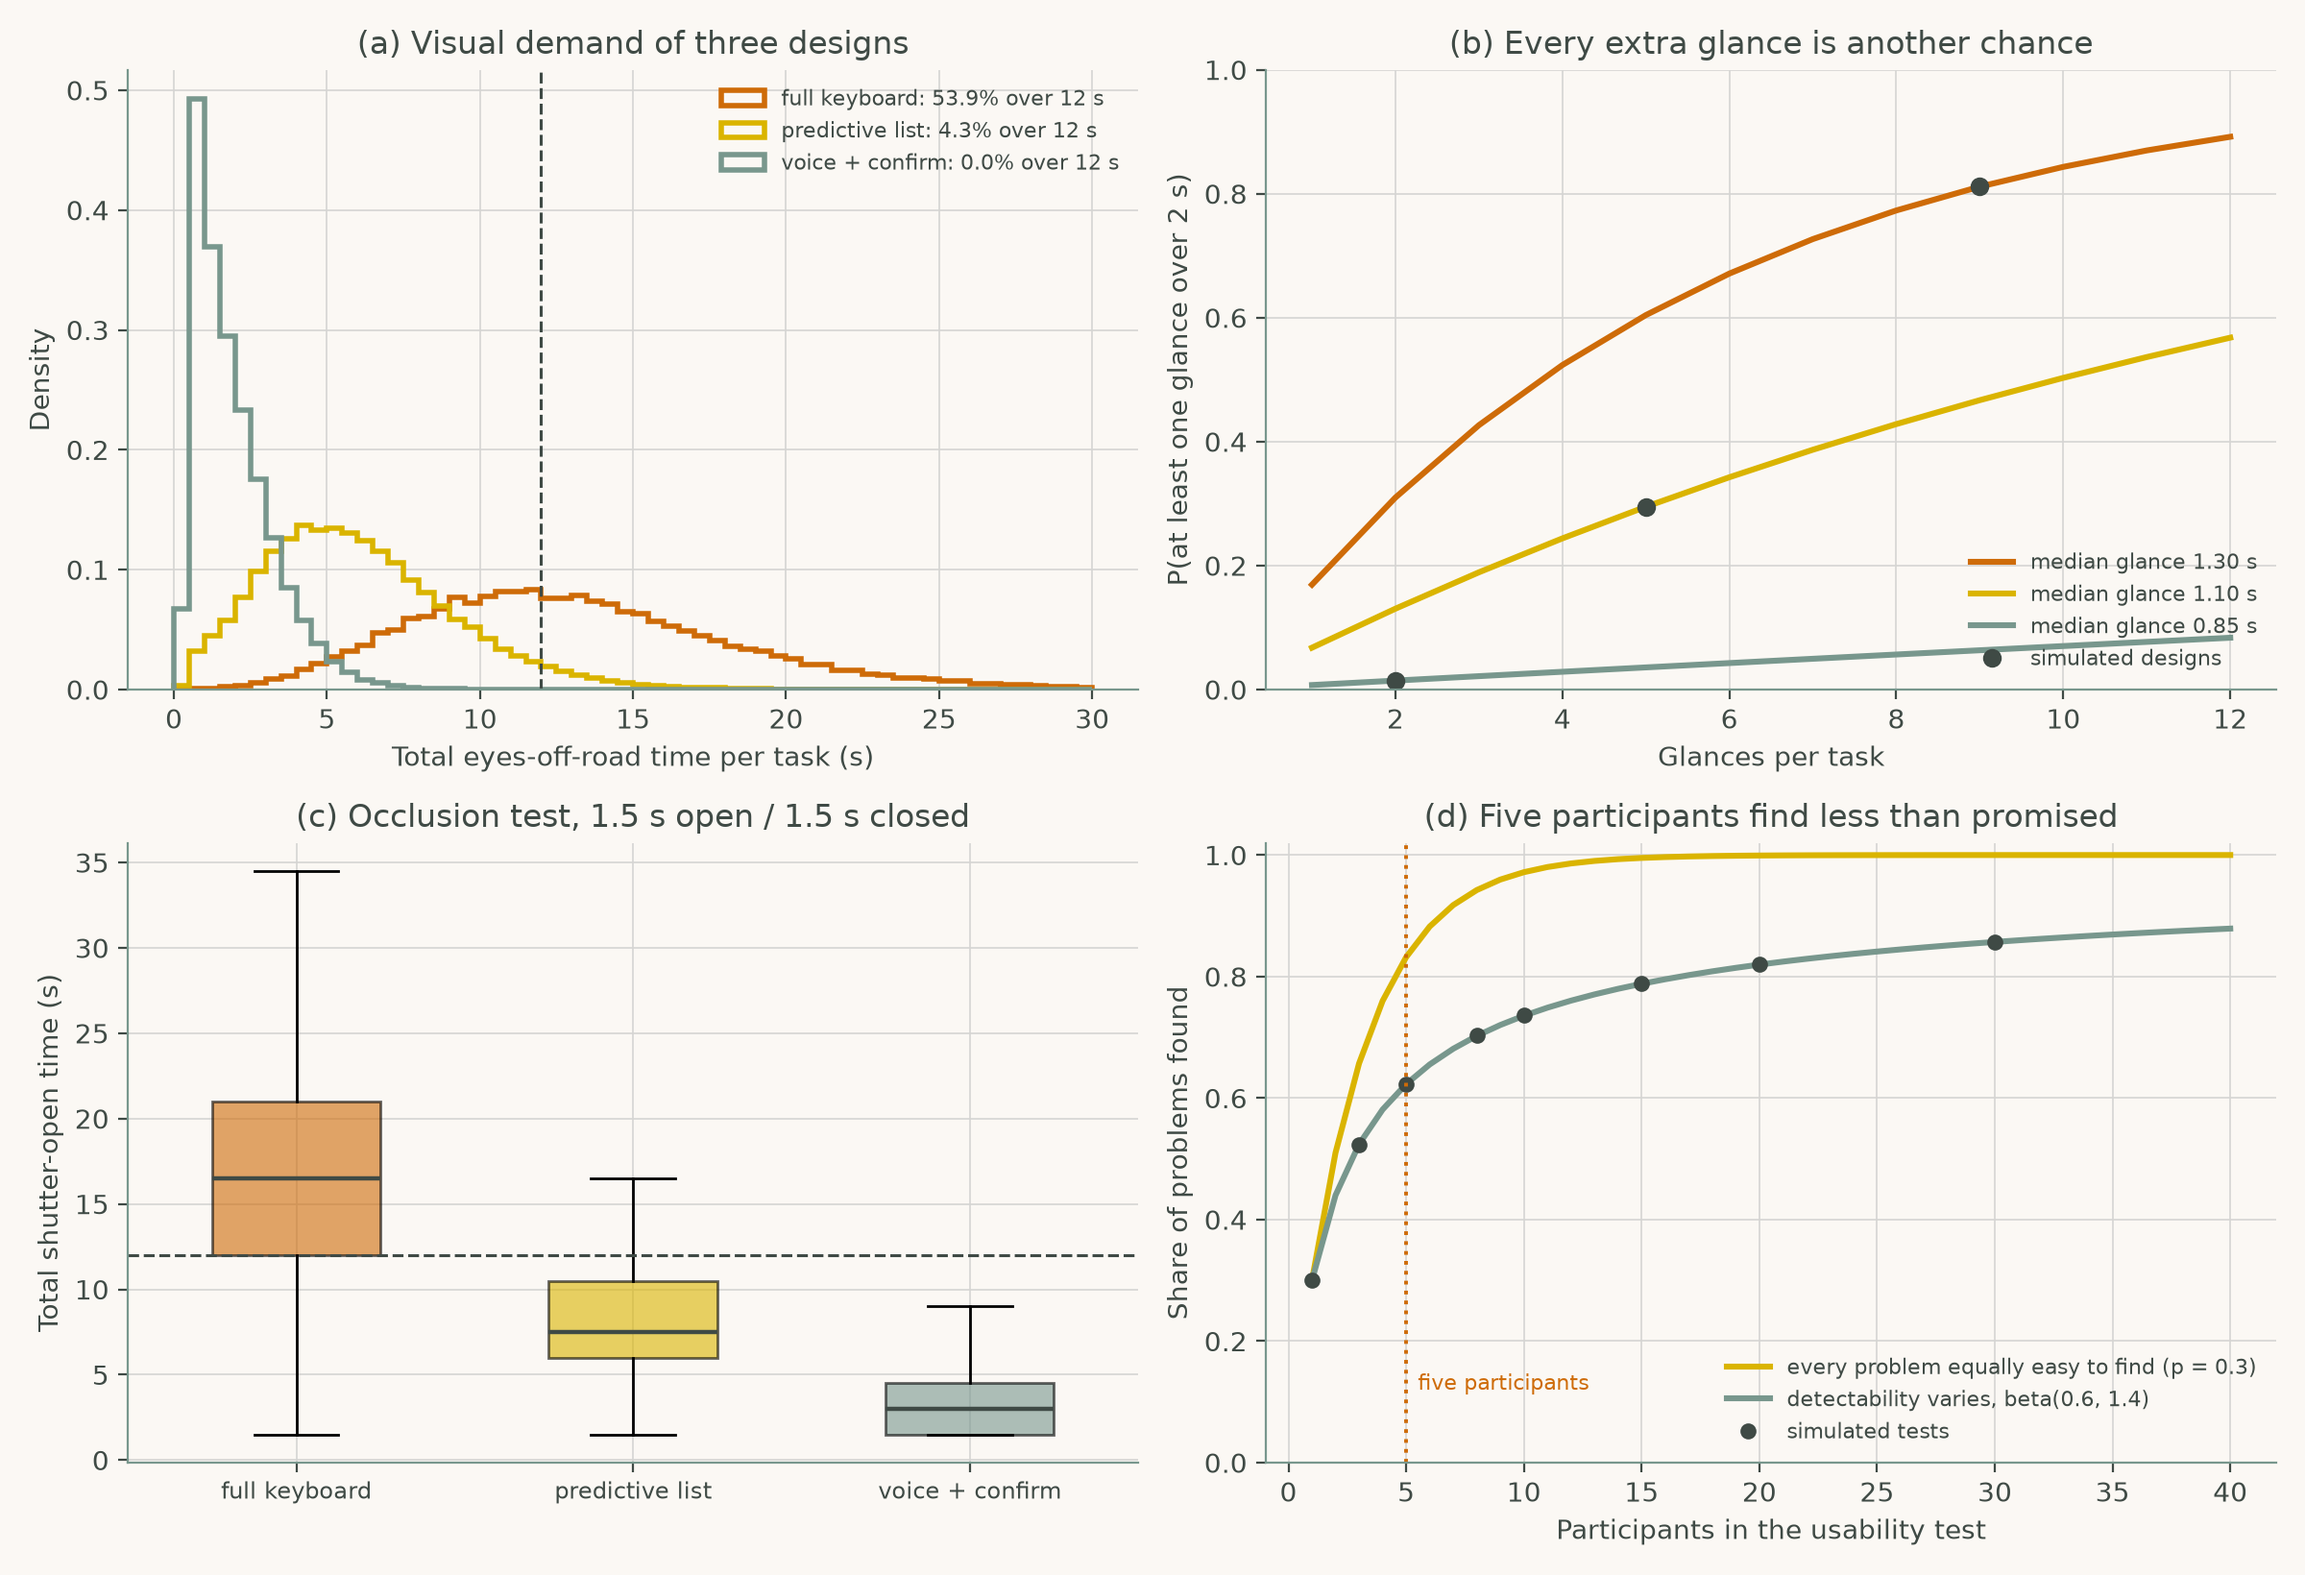
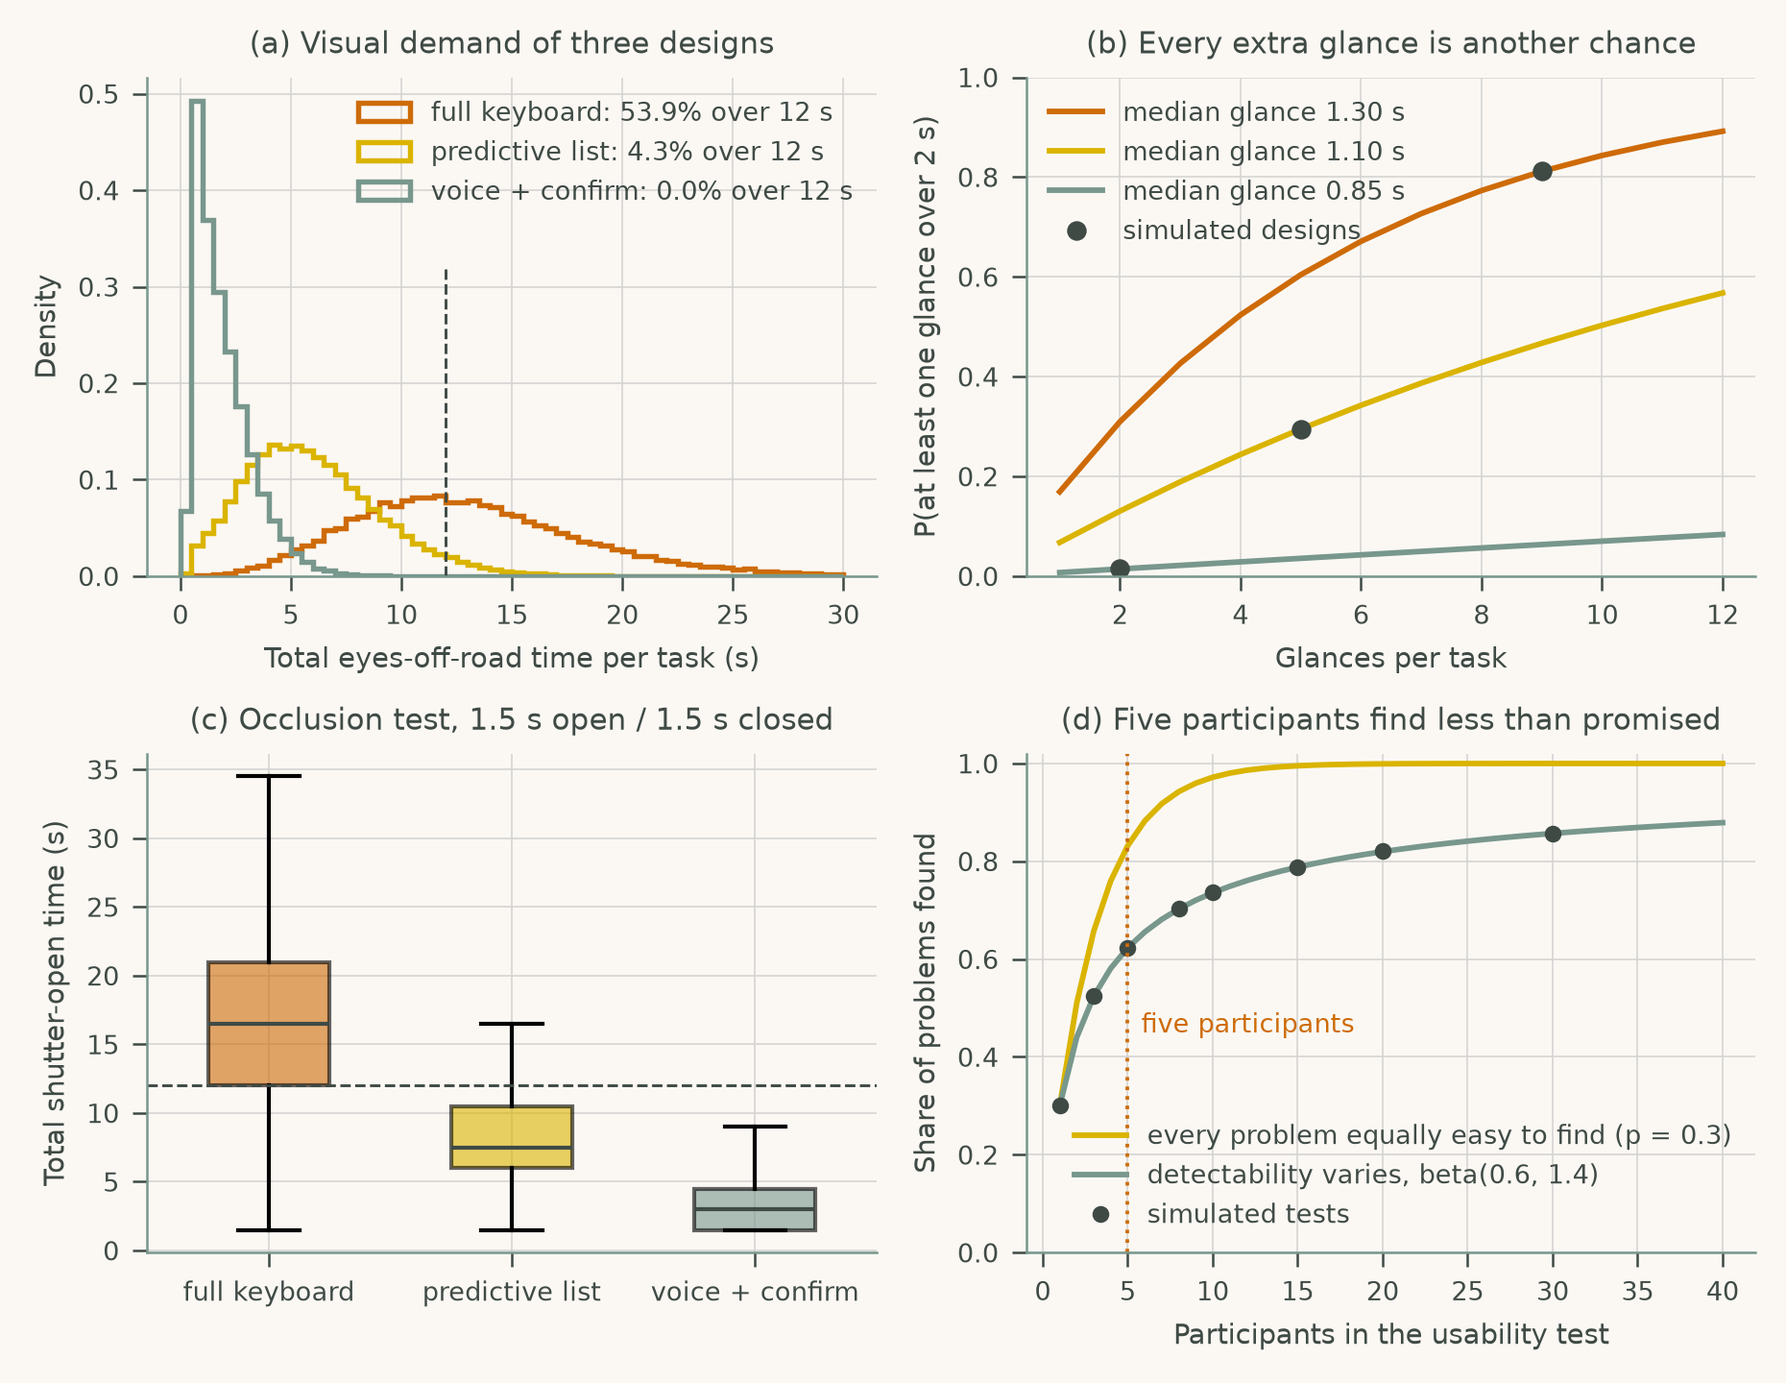
Redraw Chapter 4 figures at print size with readable type

diff --git a/chapters/ch04_in_vehicle_interfaces/cs2_interaction_modalities.py b/chapters/ch04_in_vehicle_interfaces/cs2_interaction_modalities.py
@@ -146,54 +146,58 @@ plt.rcParams.update({
     "xtick.color": INK, "ytick.color": INK,
     "figure.facecolor": PAPER, "axes.facecolor": PAPER,
     "axes.spines.top": False, "axes.spines.right": False,
-    "axes.grid": True, "grid.color": GRID, "grid.linewidth": 0.6})
-fig, ax = plt.subplots(2, 2, figsize=(12, 8.2))
+    "axes.grid": True, "grid.color": GRID, "grid.linewidth": 0.4,
+    "font.size": 7, "axes.titlesize": 7.5, "axes.labelsize": 7, "legend.fontsize": 6.5,
+    "xtick.labelsize": 6.5, "ytick.labelsize": 6.5, "axes.linewidth": 0.6,
+    "xtick.major.width": 0.6, "ytick.major.width": 0.6, "lines.linewidth": 1.2,
+    "legend.frameon": False})
+fig, ax = plt.subplots(2, 2, figsize=(6.2, 4.8))
 a = ax[0, 0]                                                   # (a) time and eyes-off-road
 x = np.arange(len(cmp))
 a.bar(x - 0.2, cmp.time_sim, 0.38, color=SKY, edgecolor=INK, lw=0.5, label="task time")
 a.bar(x + 0.2, cmp.eyes_off_sim, 0.38, color=RUST, edgecolor=INK, lw=0.5,
       label="eyes off the road")
-a.plot(x - 0.2, cmp.time_closed, "D", color=INK, ms=4)
-a.plot(x + 0.2, cmp.eyes_off_closed, "D", color=INK, ms=4, label="closed form")
-a.set_xticks(x, [m.replace(" + ", "\n+ ") for m in cmp.modality], fontsize=8.5)
-a.set(ylabel="Seconds per selection", title="(a) Fast is not the same as eyes on the road")
-a.legend(fontsize=8, frameon=False, loc="upper left")
+a.plot(x - 0.2, cmp.time_closed, "D", color=INK, ms=2.6)
+a.plot(x + 0.2, cmp.eyes_off_closed, "D", color=INK, ms=2.6, label="closed form")
+a.set_xticks(x, [m.replace(" + ", "\n+ ") for m in cmp.modality], fontsize=6.5)
+a.set(ylabel="Seconds per selection", title="(a) Fast is not the same as eyes on the road", ylim=(0, 5.4))
+a.legend(fontsize=6.5, loc="upper left", ncol=2)
 a = ax[0, 1]                                                   # (b) touch accuracy
 ww_ = np.linspace(5, 35, 300)
 ROADS = [(S_MOTOR, SAGE, "smooth road"), (np.hypot(S_MOTOR, S_VIB), RUST, "rough road")]
 for s, c, lab in ROADS:
-    a.plot(ww_, p_hit(ww_, s), color=c, lw=2.2, label=lab)
+    a.plot(ww_, p_hit(ww_, s), color=c, lw=1.4, label=lab)
 for w in [12.0, 18.0, 24.0]:
     xx = rng.normal(0, np.hypot(S_MOTOR, S_VIB), 100_000)
-    a.plot(w, (np.abs(xx) < w / 2).mean(), "o", color=INK, ms=5)
-a.axhline(0.99, color=INK, ls=":", lw=1)
-a.axvline(w99, color=RUST, ls="--", lw=1)
-a.text(w99 + 0.5, 0.6, f"{w99:.1f} mm for 99%\non a rough road", fontsize=8, color=RUST)
+    a.plot(w, (np.abs(xx) < w / 2).mean(), "o", color=INK, ms=3.2)
+a.axhline(0.99, color=INK, ls=":", lw=0.6)
+a.axvline(w99, color=RUST, ls="--", lw=0.6)
+a.text(w99 + 0.5, 0.6, f"{w99:.1f} mm for 99%\non a rough road", fontsize=6.5, color=RUST)
 a.set(xlabel="Touch target width (mm)", ylabel="Probability the first touch hits",
       title="(b) Vibration widens the target a touch needs")
-a.legend(fontsize=8, frameon=False, loc="lower right")
+a.legend(fontsize=6.5, loc="lower right")
 a = ax[1, 0]                                                   # (c) redundant alerts
 tt = np.linspace(0.2, 1.2, 400)
-a.plot(tt, F["visual"](tt), color=SKY, lw=2, label="visual alone")
-a.plot(tt, F["auditory"](tt), color=GOLD, lw=2, label="auditory alone")
-a.plot(tt, race_cdf(tt, ("visual", "auditory")), color=SAGE, lw=2.2,
-       label="visual + auditory, independent race")
-a.plot(tt, np.minimum(1, F["visual"](tt) + F["auditory"](tt)), color=INK, ls="--", lw=1.2,
+a.plot(tt, F["visual"](tt), color=SKY, lw=1.3, label="visual alone")
+a.plot(tt, F["auditory"](tt), color=GOLD, lw=1.3, label="auditory alone")
+a.plot(tt, race_cdf(tt, ("visual", "auditory")), color=SAGE, lw=1.4,
+       label="visual + auditory (race)")
+a.plot(tt, np.minimum(1, F["visual"](tt) + F["auditory"](tt)), color=INK, ls="--", lw=0.8,
        label="Miller's bound")
-a.plot(np.sort(coact)[::4000], np.linspace(0, 1, len(coact))[::4000], color=RUST, lw=1.8,
+a.plot(np.sort(coact)[::4000], np.linspace(0, 1, len(coact))[::4000], color=RUST, lw=1.2,
        label="coactivation (simulated)")
 a.set(xlabel="Reaction time (s)", ylabel="Cumulative probability", xlim=(0.2, 1.0),
       title="(c) Two channels, a faster response")
-a.legend(fontsize=7.5, frameon=False, loc="lower right")
+a.legend(fontsize=6, loc="lower right")
 a = ax[1, 1]                                                   # (d) voice break-even
 ee = np.linspace(0, 0.7, 300)
-a.plot(ee, voice_eyes(ee), color=SAGE, lw=2.2, label="voice, with a glance per error")
-a.plot(e_sim and [r[0] for r in e_sim], [r[2] for r in e_sim], "o", color=INK, ms=5,
+a.plot(ee, voice_eyes(ee), color=SAGE, lw=1.4, label="voice, with a glance per error")
+a.plot(e_sim and [r[0] for r in e_sim], [r[2] for r in e_sim], "o", color=INK, ms=3.2,
        label="simulated")
-a.axhline(target, color=RUST, ls="--", lw=1.4, label="touch")
-a.axvline(e_star, color=INK, ls=":", lw=1)
-a.text(e_star + 0.01, 0.75, f"break-even\n{e_star:.2f}", fontsize=8)
+a.axhline(target, color=RUST, ls="--", lw=0.9, label="touch")
+a.axvline(e_star, color=INK, ls=":", lw=0.6)
+a.text(e_star + 0.01, 0.75, f"break-even\n{e_star:.2f}", fontsize=6.5)
 a.set(xlabel="Voice recognition error rate", ylabel="Eyes off the road per selection (s)",
-      ylim=(0.4, 2.6), title="(d) How bad recognition must get before touch wins")
-a.legend(fontsize=8, frameon=False, loc="upper left")
-fig.tight_layout(); fig.savefig("chap04_fig02_modalities.png", dpi=200)
+      ylim=(0.4, 2.6), title="(d) When touch beats voice")
+a.legend(fontsize=6.5, loc="upper left")
+fig.tight_layout(); fig.savefig("chap04_fig02_modalities.png", dpi=300)

diff --git a/chapters/ch04_in_vehicle_interfaces/cs1_glance_usability.py b/chapters/ch04_in_vehicle_interfaces/cs1_glance_usability.py
@@ -126,49 +126,53 @@ plt.rcParams.update({
     "xtick.color": INK, "ytick.color": INK,
     "figure.facecolor": PAPER, "axes.facecolor": PAPER,
     "axes.spines.top": False, "axes.spines.right": False,
-    "axes.grid": True, "grid.color": GRID, "grid.linewidth": 0.6})
-fig, ax = plt.subplots(2, 2, figsize=(12, 8.2))
+    "axes.grid": True, "grid.color": GRID, "grid.linewidth": 0.4,
+    "font.size": 7, "axes.titlesize": 7.5, "axes.labelsize": 7, "legend.fontsize": 6.5,
+    "xtick.labelsize": 6.5, "ytick.labelsize": 6.5, "axes.linewidth": 0.6,
+    "xtick.major.width": 0.6, "ytick.major.width": 0.6, "lines.linewidth": 1.2,
+    "legend.frameon": False})
+fig, ax = plt.subplots(2, 2, figsize=(6.2, 4.8))
 col = {"full keyboard": RUST, "predictive list": GOLD, "voice + confirm": SAGE}
 a = ax[0, 0]                                                   # (a) total eyes-off-road
 bins = np.linspace(0, 30, 61)
 for d, t in pop.items():
-    a.hist(t.teort, bins, density=True, histtype="step", lw=2, color=col[d],
+    a.hist(t.teort, bins, density=True, histtype="step", lw=1.3, color=col[d],
            label=f"{d}: {(t.teort > 12).mean():.1%} over 12 s")
-a.axvline(12, color=INK, ls="--", lw=1.1)
+a.axvline(12, ymax=0.62, color=INK, ls="--", lw=0.7)
 a.set(xlabel="Total eyes-off-road time per task (s)", ylabel="Density",
       title="(a) Visual demand of three designs")
-a.legend(fontsize=8, frameon=False, loc="upper right")
+a.legend(fontsize=6.5, loc="upper right")
 a = ax[0, 1]                                                   # (b) long-glance risk
 kk = np.arange(1, 13)
 for med, sd, c in [(1.30, 0.45, RUST), (1.10, 0.40, GOLD), (0.85, 0.35, SAGE)]:
-    a.plot(kk, 1 - stats.lognorm.cdf(2, sd, scale=med) ** kk, color=c, lw=2.2,
+    a.plot(kk, 1 - stats.lognorm.cdf(2, sd, scale=med) ** kk, color=c, lw=1.4,
            label=f"median glance {med:.2f} s")
 for (d, k, p_c, p_s, _, _) in chk:
-    a.plot(k, p_s, "o", color=INK, ms=6)
-a.plot([], [], "o", color=INK, ms=6, label="simulated designs")
+    a.plot(k, p_s, "o", color=INK, ms=3.9)
+a.plot([], [], "o", color=INK, ms=3.9, label="simulated designs")
 a.set(xlabel="Glances per task", ylabel="P(at least one glance over 2 s)", ylim=(0, 1),
       title="(b) Every extra glance is another chance")
-a.legend(fontsize=8, frameon=False, loc="lower right")
+a.legend(fontsize=6.5, loc="upper left")
 a = ax[1, 0]                                                   # (c) occlusion test
 data = [tsot_closed(pop[d].teort.to_numpy()[:2000]) for d in DESIGNS]
 bp = a.boxplot(data, patch_artist=True, widths=0.5, showfliers=False,
-               medianprops=dict(color=INK, lw=1.6))
+               medianprops=dict(color=INK, lw=1))
 for patch, d in zip(bp["boxes"], DESIGNS):
     patch.set(facecolor=col[d], alpha=0.6)
-a.axhline(12, color=INK, ls="--", lw=1.1)
-a.set_xticks([1, 2, 3], list(DESIGNS), fontsize=8.5)
+a.axhline(12, color=INK, ls="--", lw=0.7)
+a.set_xticks([1, 2, 3], list(DESIGNS), fontsize=6.5)
 a.set(ylabel="Total shutter-open time (s)",
       title="(c) Occlusion test, 1.5 s open / 1.5 s closed")
 a = ax[1, 1]                                                   # (d) usability testing
 nn = np.arange(1, 41)
-a.plot(nn, [found_homogeneous(n) for n in nn], color=GOLD, lw=2.2,
+a.plot(nn, [found_homogeneous(n) for n in nn], color=GOLD, lw=1.4,
        label="every problem equally easy to find (p = 0.3)")
-a.plot(nn, [found_heterogeneous(n) for n in nn], color=SAGE, lw=2.2,
+a.plot(nn, [found_heterogeneous(n) for n in nn], color=SAGE, lw=1.4,
        label="detectability varies, beta(0.6, 1.4)")
-a.plot(disc.participants, disc.beta_sim, "o", color=INK, ms=5, label="simulated tests")
-a.axvline(5, color=RUST, ls=":", lw=1.4)
-a.text(5.5, 0.12, "five participants", fontsize=8, color=RUST)
+a.plot(disc.participants, disc.beta_sim, "o", color=INK, ms=3.2, label="simulated tests")
+a.axvline(5, color=RUST, ls=":", lw=0.9)
+a.text(5.8, 0.45, "five participants", fontsize=6.5, color=RUST)
 a.set(xlabel="Participants in the usability test", ylabel="Share of problems found",
       ylim=(0, 1.02), title="(d) Five participants find less than promised")
-a.legend(fontsize=8, frameon=False, loc="lower right")
-fig.tight_layout(); fig.savefig("chap04_fig01_glance_usability.png", dpi=200)
+a.legend(fontsize=6.5, loc="lower right")
+fig.tight_layout(); fig.savefig("chap04_fig01_glance_usability.png", dpi=300)
